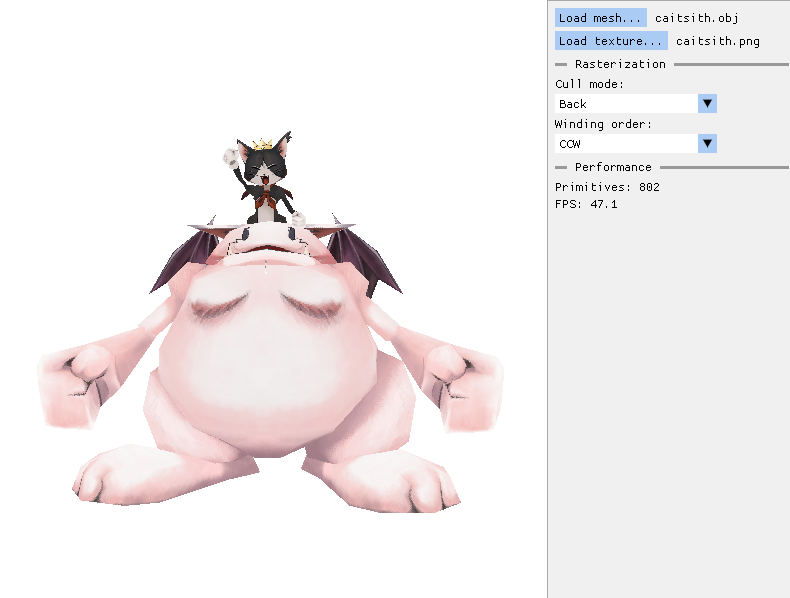
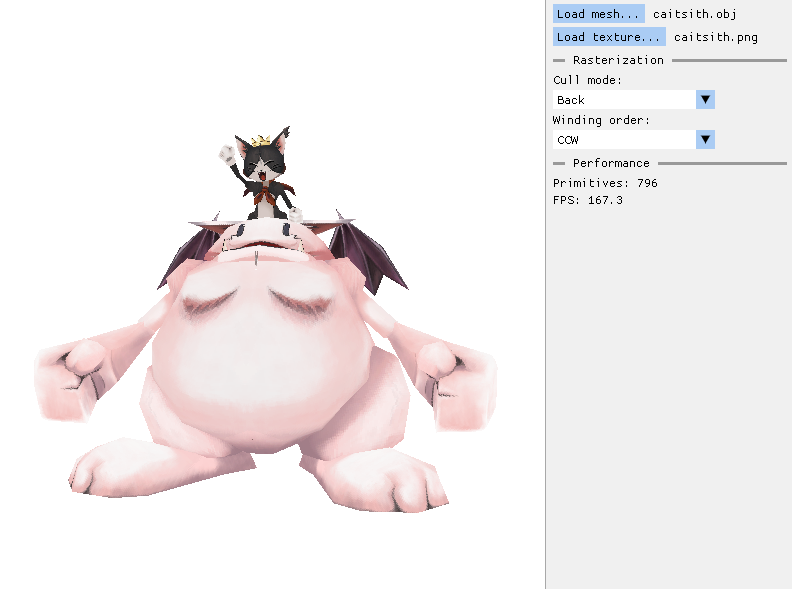
Implemented a custom thread pool class to support multi-threading on all rasterization stages

diff --git a/src/rasterizer/rasterizer.cpp b/src/rasterizer/rasterizer.cpp
@@ -65,6 +65,7 @@ void Rasterizer::Initialize(std::shared_ptr<Framebuffer> buffer, std::shared_ptr
 {
     framebuffer_ = std::move(buffer);
     viewport_ = std::move(viewport);
+    threadPool_ = std::make_unique<ThreadPool>();
 
     InitializeTileGrid();
 }
@@ -107,29 +108,27 @@ void Rasterizer::Draw(const Mesh& mesh)
     // Step 1: Vertex Shader & Perspective Projection - run in parallel
     const size_t vertices_num = mesh.v_indices.size();
     vertexBuffer_.Resize(vertices_num);
-    std::vector<size_t> indices(vertices_num);
-    std::iota(indices.begin(), indices.end(), 0);
-    for_each(std::execution::par, indices.begin(), indices.end(), [this, &mesh](const size_t index)
+    threadPool_->ForEach(vertices_num, [&mesh, this](int index)
     {
         ApplyPerspectiveProjection(mesh, index);
     });
 
-    // Step 2: Primitive assembly - NOT parallel
-    for (size_t primitive_index = 0; primitive_index < mesh.primitives_num; ++primitive_index)
+    // Step 2: Primitive assembly - parallel
+    threadPool_->ForEach(mesh.primitives_num, [this](int index)
     {
-        ProcessPrimitive(primitive_index);
-    }
+        ProcessPrimitive(index);
+    });
 
     // Step 3: Tile binning - parallel
-    std::for_each(std::execution::par, triangles_.begin(), triangles_.end(), [this](const RasterTriangle& triangle)
+    threadPool_->ForEach(triangles_.size(), [this](int index)
     {
-        BinTriangleToTiles(triangle);
+        BinTriangleToTiles(triangles_[index]);
     });
 
     // Step 4: Tile rasterization - parallel
-    std::for_each(std::execution::par, tileBuffer_.tiles.begin(), tileBuffer_.tiles.end(), [this](const Tile& tile)
+    threadPool_->ForEach(tileBuffer_.tiles.size(), [this](int index)
     {
-        RasterizeTile(tile);
+        RasterizeTile(tileBuffer_.tiles[index]);
     });
 }
 
@@ -182,6 +181,7 @@ void Rasterizer::ProcessPrimitive(const size_t primitive_index)
     if (!InitializeTriangle(triangle)) // triangle is not culled
         return;
 
+    std::lock_guard<std::mutex> lock(mutex_);
     triangles_.push_back(triangle);
 }
 
@@ -249,7 +249,7 @@ void Rasterizer::BinTriangleToTiles(const RasterTriangle& triangle)
         for (size_t iy = startTileY; iy <= endTileY; ++iy)
         {
             const size_t tile_index = iy * tileBuffer_.width + ix;
-            std::lock_guard<std::mutex> lock(tile_mutex_);
+            std::lock_guard<std::mutex> lock(mutex_);
             tileBuffer_.tiles[tile_index].triangles.push_back(&triangle);
         }
     }

diff --git a/src/rasterizer/thread_pool.cpp b/src/rasterizer/thread_pool.cpp
@@ -1,0 +1,50 @@
+#include "thread_pool.h"
+
+ThreadPool::ThreadPool(const size_t num_threads) : barrier_(num_threads + 1)
+{
+    for (size_t i = 0; i < num_threads; ++i)
+    {
+        threads_.emplace_back([this, i]() { RunThread(i); });
+    }
+}
+
+ThreadPool::~ThreadPool()
+{
+    running_ = false;
+    barrier_.arrive_and_wait(); // wait till each thread exist the loop
+}
+
+void ThreadPool::ForEach(const int count, const std::function<void(int)>& task)
+{
+    max_index_ = count;
+    task_ = task;
+    current_index_ = 0;
+
+    barrier_.arrive_and_wait(); // activating threads
+
+    barrier_.arrive_and_wait(); // waiting for threads to finish
+}
+
+void ThreadPool::RunThread(int thread_id)
+{
+    while (running_)
+    {
+        // waiting for the main thread to give a sign to start working
+        barrier_.arrive_and_wait();
+        if (!running_)
+            break;
+
+        while (true)
+        {
+            // scheduling
+            int current_index = current_index_.fetch_add(1, std::memory_order_relaxed);
+            if (current_index >= max_index_)
+                break;
+
+            // do work
+            task_(current_index);
+        }
+
+        barrier_.arrive_and_wait();
+    }
+}

diff --git a/src/rasterizer/thread_pool.h b/src/rasterizer/thread_pool.h
@@ -1,0 +1,26 @@
+#pragma once
+#include <barrier>
+#include <functional>
+#include <thread>
+#include <vector>
+
+class ThreadPool
+{
+public:
+    explicit ThreadPool(size_t num_threads = std::thread::hardware_concurrency() - 1);
+    ~ThreadPool();
+
+    void ForEach(int count, const std::function<void(int)>& task);
+
+private:
+    void RunThread(int thread_id);
+
+    std::barrier<> barrier_;
+    std::vector<std::jthread> threads_;
+    std::atomic<bool> running_ = true;
+
+    int max_index_ = 0;
+    std::atomic<int> current_index_ = 0;
+
+    std::function<void(int)> task_;
+};

diff --git a/src/rasterizer/rasterizer.h b/src/rasterizer/rasterizer.h
@@ -5,6 +5,7 @@
 #include "framebuffer.h"
 #include "mesh.h"
 #include "render_state.h"
+#include "thread_pool.h"
 #include "viewport.h"
 
 namespace rasterizer
@@ -71,9 +72,10 @@ private:
     std::shared_ptr<Viewport> viewport_;
 
     RenderState state_;
+    std::unique_ptr<ThreadPool> threadPool_;
 
     rasterizer::VertexBuffer vertexBuffer_;
     std::vector<rasterizer::RasterTriangle> triangles_;
     rasterizer::TileBuffer tileBuffer_;
-    std::mutex tile_mutex_;
+    std::mutex mutex_;
 };

diff --git a/README.md b/README.md
@@ -8,14 +8,13 @@ This a **3D Software Rasterizer** built from scratch in C++. I'm continuously wo
 - Automatic scaling to support models of different sizes without a need to change anything in the camera setup
 - Ability to easily set and define user-specific Vertex (defaults tp MVP matrix) and Fragment (defaults to texture mapping) shaders
 - Perspective correct attribute interpolation
-- SIMD friendly code
 - Tile-based rasterization
-- Rasterizer performance debug information
+- Multithreading using C++20 features (specifically `std::barrier`) and lock-free work distribution across a thread pool, resulting in ~190 FPS on Ryzen 7 9700X
 
 ## To do:
 - <s>Optimize perfomance and overall rasterizer design</s>
 - Shading and lighting! 
-- <s>Multithreading!!</s> - kind of, simple parallelism using `std::execution::parallel_policy`
+- <s>Multithreading!!</s>
 
 ## Gallery
 
@@ -32,7 +31,7 @@ This a **3D Software Rasterizer** built from scratch in C++. I'm continuously wo
 
 To build and run this project, you will need:
 
-1.  **A C++ Compiler:** (e.g., GCC, Clang, or MSVC)
+1.  **A C++ Compiler:** (GCC, Clang, or MSVC)
 2.  **CMake:** Version 3.16 or higher.
 
 ## How to Build
